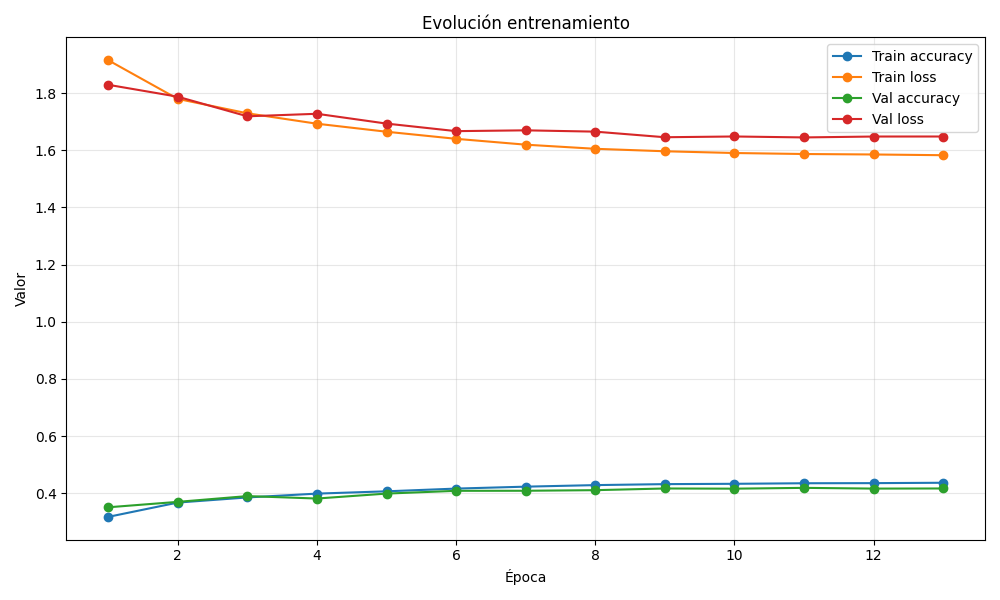
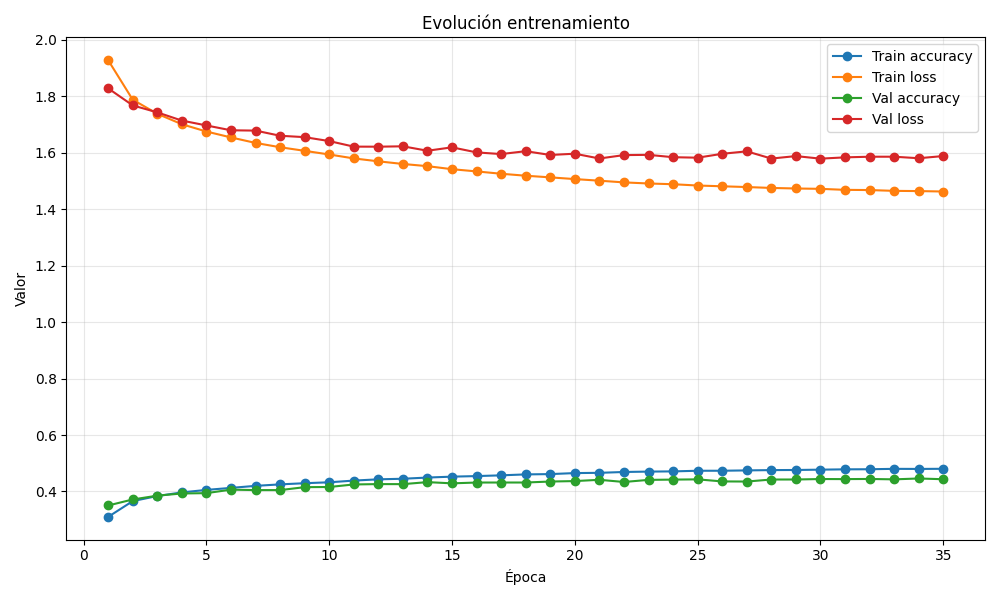
terminar y refactorizar

diff --git a/main.py b/main.py
@@ -27,9 +27,23 @@ class MLPConfig:
     activation: str               #activacion de las capas intermedias
     epochs: int = 10              #épocas
     batch_size: int = 32          #tamaño de batch
+    verbose: int = 0
 
+@dataclass #dataclass para los distintos earlyStops
+class EarlyStoppingConfig:
+    monitor: str = 'val_loss'
+    patience: int = 10
+    restore_weights: bool = True
+    min_delta: float = 0.001
+    verbose: int = 1
+
+_datos_cacheados = None
 
 def cargar_datos():
+    global _datos_cacheados
+    if _datos_cacheados is not None:
+        return _datos_cacheados
+    
     (X_train, y_train), (X_test, y_test) = keras.datasets.cifar10.load_data()
 
     #shape es (50000, 32, 32, 3) -> (50000, 3072), normalizando píxeles a [0, 1]
@@ -41,7 +55,9 @@ def cargar_datos():
     y_train_cat = to_categorical(y_train, num_clases)
     y_test_cat  = to_categorical(y_test, num_clases)
 
-    return X_train, y_train_cat, X_test, y_test_cat, y_test
+    _datos_cacheados = (X_train, y_train_cat, X_test, y_test_cat, y_test)
+
+    return _datos_cacheados
 
 def compilar_mlp(config: MLPConfig, input_dim: int, num_clases: int = 10):
     model = models.Sequential(name=config.nombre)
@@ -62,8 +78,7 @@ def compilar_mlp(config: MLPConfig, input_dim: int, num_clases: int = 10):
     )
     return model
 
-
-def ejecutar_MLP(config: MLPConfig):
+def entrenar_MLP(config: MLPConfig, ea: EarlyStoppingConfig):
     X_train, y_train, X_test , y_test, y_test_labels = cargar_datos()
 
     input_dim = X_train.shape[1]
@@ -72,20 +87,27 @@ def ejecutar_MLP(config: MLPConfig):
     model = compilar_mlp(config,input_dim,num_clases)
     t0 = time.time()
     my_callbacks = [
-        keras.callbacks.EarlyStopping(patience=2)
+        keras.callbacks.EarlyStopping(
+            monitor= ea.monitor,
+            patience = ea.patience,
+            restore_best_weights = ea.restore_weights,
+            min_delta = ea.min_delta,
+            verbose = ea.verbose
+        )
     ]
     history = model.fit(
         X_train,y_train,
         validation_split = 0.1, 
         batch_size = config.batch_size,
         epochs = config.epochs,
-        verbose = 0,
+        verbose = config.verbose,
         callbacks = my_callbacks
     )
     train_time = time.time() - t0
-    
-    test_loss, test_acc = model.evaluate(X_test, y_test)
-    y_pred_probs = model.predict(X_test, verbose=0)
+
+    test_loss, test_acc = model.evaluate(X_test, y_test,verbose=config.verbose)
+    #esto es para la matriz de confusion donde usaremos esto y el etiquetado del test es decir y_test (sin codificacion one-hot)
+    y_pred_probs = model.predict(X_test, verbose=0) #las probabilidades de cada clase para cada imagen de test
     y_pred = np.argmax(y_pred_probs, axis=1) #nos quedamos con el mayor valor para cada imagen la que el mlp piensa que es mas esa
 
     return {
@@ -97,11 +119,11 @@ def ejecutar_MLP(config: MLPConfig):
         "y_test": y_test_labels
     }
 
-def entrenar_varias_veces(config: MLPConfig, repeticiones=5):
+def entrenar_varias_veces(config: MLPConfig,ea: EarlyStoppingConfig, repeticiones=5):
     historial = []
     for i in range(repeticiones):
         print(f"Entrenamiento {i+1}/{repeticiones}")
-        resultado = ejecutar_MLP(config)
+        resultado = entrenar_MLP(config,ea)
         historial.append(resultado)
     return historial
 
@@ -113,7 +135,7 @@ def calcular_media_historial(historial):
     keys = list(historial[0]["history"].keys())
     medias = {}
     
-    # Encontrar la longitud máxima
+    #encontrar la longitud máxima
     max_length = max(len(h["history"][keys[0]]) for h in historial) #obtenemos el maximo numero de epocas
     
     # Obtener número de épocas en cada entrenamiento
@@ -127,7 +149,7 @@ def calcular_media_historial(historial):
             if len(arr) < max_length:
                 arr = np.pad(arr, (0, max_length - len(arr)), mode='edge') #rellena hasta max-length con el ultimo valor, para graficar
             todas.append(arr)
-        medias[k] = np.mean(np.array(todas), axis=0)
+        medias[k] = np.mean(np.array(todas), axis=0) #hacemos la media entre columnas es decir epoca a epoca con los 5 entrenamientos
     
     valores_test = ['train_time', 'test_loss', 'test_acc'] #esto son valroes escalares no es necesario nada
     for v in valores_test:
@@ -163,8 +185,8 @@ def matriz_confusion(y_test, y_pred, nombre_modelo, filename):
     plt.close()
     print(f"Matriz de confusión guardada: {filename}")
 
-def probar_mlp(config: MLPConfig, repeticiones):
-    historial = entrenar_varias_veces(config, repeticiones)
+def probar_mlp(config: MLPConfig,ea: EarlyStoppingConfig, repeticiones):
+    historial = entrenar_varias_veces(config, ea, repeticiones)
     media, max_epochs, num_epocas = calcular_media_historial(historial)
     
     # Mostrar en qué época paró cada entrenamiento
@@ -203,9 +225,106 @@ def probar_mlp(config: MLPConfig, repeticiones):
     print(f"Val Accuracy final (media): {media['val_accuracy'][-1]:.4f}") #el ultimo de ellos
     print(f"Val Loss final (media): {media['val_loss'][-1]:.4f}") #el ultimo de ellos
 
+def graficar_comparativa_modelos(resultados: Dict, filename_acc, filename_time):
+    """
+    Grafica barras comparando múltiples modelos
+    
+    Args:
+        resultados: Dict con resultados de modelos
+        filename_acc: Archivo para gráfica de accuracy
+        filename_time: Archivo para gráfica de tiempo
+    """
+    nombres = list(resultados.keys())
+    accs = [resultados[n]["test_acc"] for n in nombres]
+    tiempos = [resultados[n]["train_time"] for n in nombres]
+    
+    # Gráfica de Accuracy
+    fig, ax = plt.subplots(figsize=(12, 5))
+    bars = ax.bar(nombres, accs, alpha=0.8, color='steelblue')
+    ax.set_ylabel("Test Accuracy")
+    ax.set_title("Comparación de Test Accuracy entre Modelos")
+    ax.set_ylim([0, 1])
+    ax.grid(True, alpha=0.3, axis='y')
+    
+    for bar, acc in zip(bars, accs):
+        height = bar.get_height()
+        ax.text(bar.get_x() + bar.get_width()/2., height,
+                f'{acc:.4f}', ha='center', va='bottom', fontsize=9)
+    
+    plt.xticks(rotation=45, ha='right')
+    plt.tight_layout()
+    plt.savefig(filename_acc, dpi=150)
+    plt.close()
+    print(f"✓ Gráfica de accuracy guardada: {filename_acc}")
+    
+    # Gráfica de Tiempo
+    fig, ax = plt.subplots(figsize=(12, 5))
+    bars = ax.bar(nombres, tiempos, alpha=0.8, color='orange')
+    ax.set_ylabel("Tiempo (segundos)")
+    ax.set_title("Comparación de Tiempo de Entrenamiento")
+    ax.grid(True, alpha=0.3, axis='y')
+    
+    for bar, t in zip(bars, tiempos):
+        height = bar.get_height()
+        ax.text(bar.get_x() + bar.get_width()/2., height,
+                f'{t:.2f}s', ha='center', va='bottom', fontsize=9)
+    
+    plt.xticks(rotation=45, ha='right')
+    plt.tight_layout()
+    plt.savefig(filename_time, dpi=150)
+    plt.close()
+    print(f"✓ Gráfica de tiempo guardada: {filename_time}")
+
+def comparar_earlystoppings(config: MLPConfig, ea_configs: List[EarlyStoppingConfig], repeticiones=3):
+    """
+    Compara múltiples configuraciones de EarlyStopping
+    
+    Args:
+        config: MLPConfig
+        ea_configs: Lista de EarlyStoppingConfig
+        repeticiones: Número de entrenamientos por config
+    """
+    resultados = {}
+    
+    print(f"\n{'='*70}")
+    print(f"COMPARACIÓN DE EARLYSTOPPING")
+    print(f"Modelo: {config.nombre}")
+    print(f"{'='*70}")
+    
+    for ea in ea_configs:
+        config_nombre = f"pat={ea.patience}_delta={ea.min_delta}"
+        config_con_nombre = MLPConfig(
+            nombre=f"{config.nombre}_{config_nombre}",
+            capas=config.capas,
+            activation=config.activation,
+            epochs=config.epochs,
+            batch_size=config.batch_size,
+            verbose=0
+        )
+        
+        resultado = probar_mlp(config_con_nombre, ea, repeticiones)
+        resultados[config_nombre] = resultado
+    
+    # Resumen
+    print(f"\n{'='*70}")
+    print("RESUMEN COMPARATIVO")
+    print(f"{'='*70}\n")
+    print(f"{'EarlyStopping Config':<30} {'Accuracy':<15} {'Tiempo':<15}")
+    print("-" * 60)
+    
+    for config_nombre, res in sorted(resultados.items(), key=lambda x: x[1]['test_acc'], reverse=True):
+        print(f"{config_nombre:<30} {res['test_acc']:.4f}          {res['train_time']:.2f}s")
+    
+    # Gráficas comparativas
+    graficar_comparativa_modelos(
+        resultados,
+        "comparativa_earlystopping_accuracy.png",
+        "comparativa_earlystopping_tiempo.png"
+    )
 
 if __name__ == "__main__":
     
+    batch_sizes = [16,32,64,128,256,512,1024] #batch_sizes a probar
     configs = [
         MLPConfig( #mlp 1
             nombre="mlp1",
@@ -213,17 +332,27 @@ if __name__ == "__main__":
             activation="sigmoid",
             epochs=10,
             batch_size=32,
+            verbose=1
         ),
         MLPConfig( #mlp 2, el callback para de media ahi
-            nombre="mlp2",
+            nombre="mlp2_patience_2_agresivo",
             capas=[48],        # 1 capa oculta de 48 neuronas
             activation="sigmoid",
             epochs=150,
             batch_size=32,
+            verbose=1
         )
     ]
 
-    probar_mlp(configs[1],5)
+    early_stopping_configs = [
+        EarlyStoppingConfig(monitor='val_loss', patience=2, min_delta=0.005, verbose=0),
+        EarlyStoppingConfig(monitor='val_loss', patience=3, min_delta=0.002, verbose=0),
+        EarlyStoppingConfig(monitor='val_loss', patience=5, min_delta=0.001, verbose=0),
+        EarlyStoppingConfig(monitor='val_loss', patience=7, min_delta=0.0005, verbose=0),
+        EarlyStoppingConfig(monitor='val_loss', patience=10, min_delta=0.0001, verbose=0),
+    ]
+
+    probar_mlp(configs[1],early_stopping_configs[0],5)
 
 
     #de momento no usar

diff --git a/docs/apuntes.md b/docs/apuntes.md
@@ -2,3 +2,6 @@ Para el del batch size, a menor numero de batch size mas actualizaciones del bac
 es decir es 50000 (el numero de imagenes) entre el batch size * el numero de epocas, a igualdad de epocas el efecto del batch size se nota mas.
 
 Mejor epoca mlp2 es 10 puesto que el callback de media para ahi en 5 ejecuciones
+
+Para mi mlp2 lo que mejor me ha ido ha sido con early-stopping val loss y 5 epocas de paciencia,
+cuando deja de mejorar restaura los mejores pesos de las 5 epocas que ese monitorean
